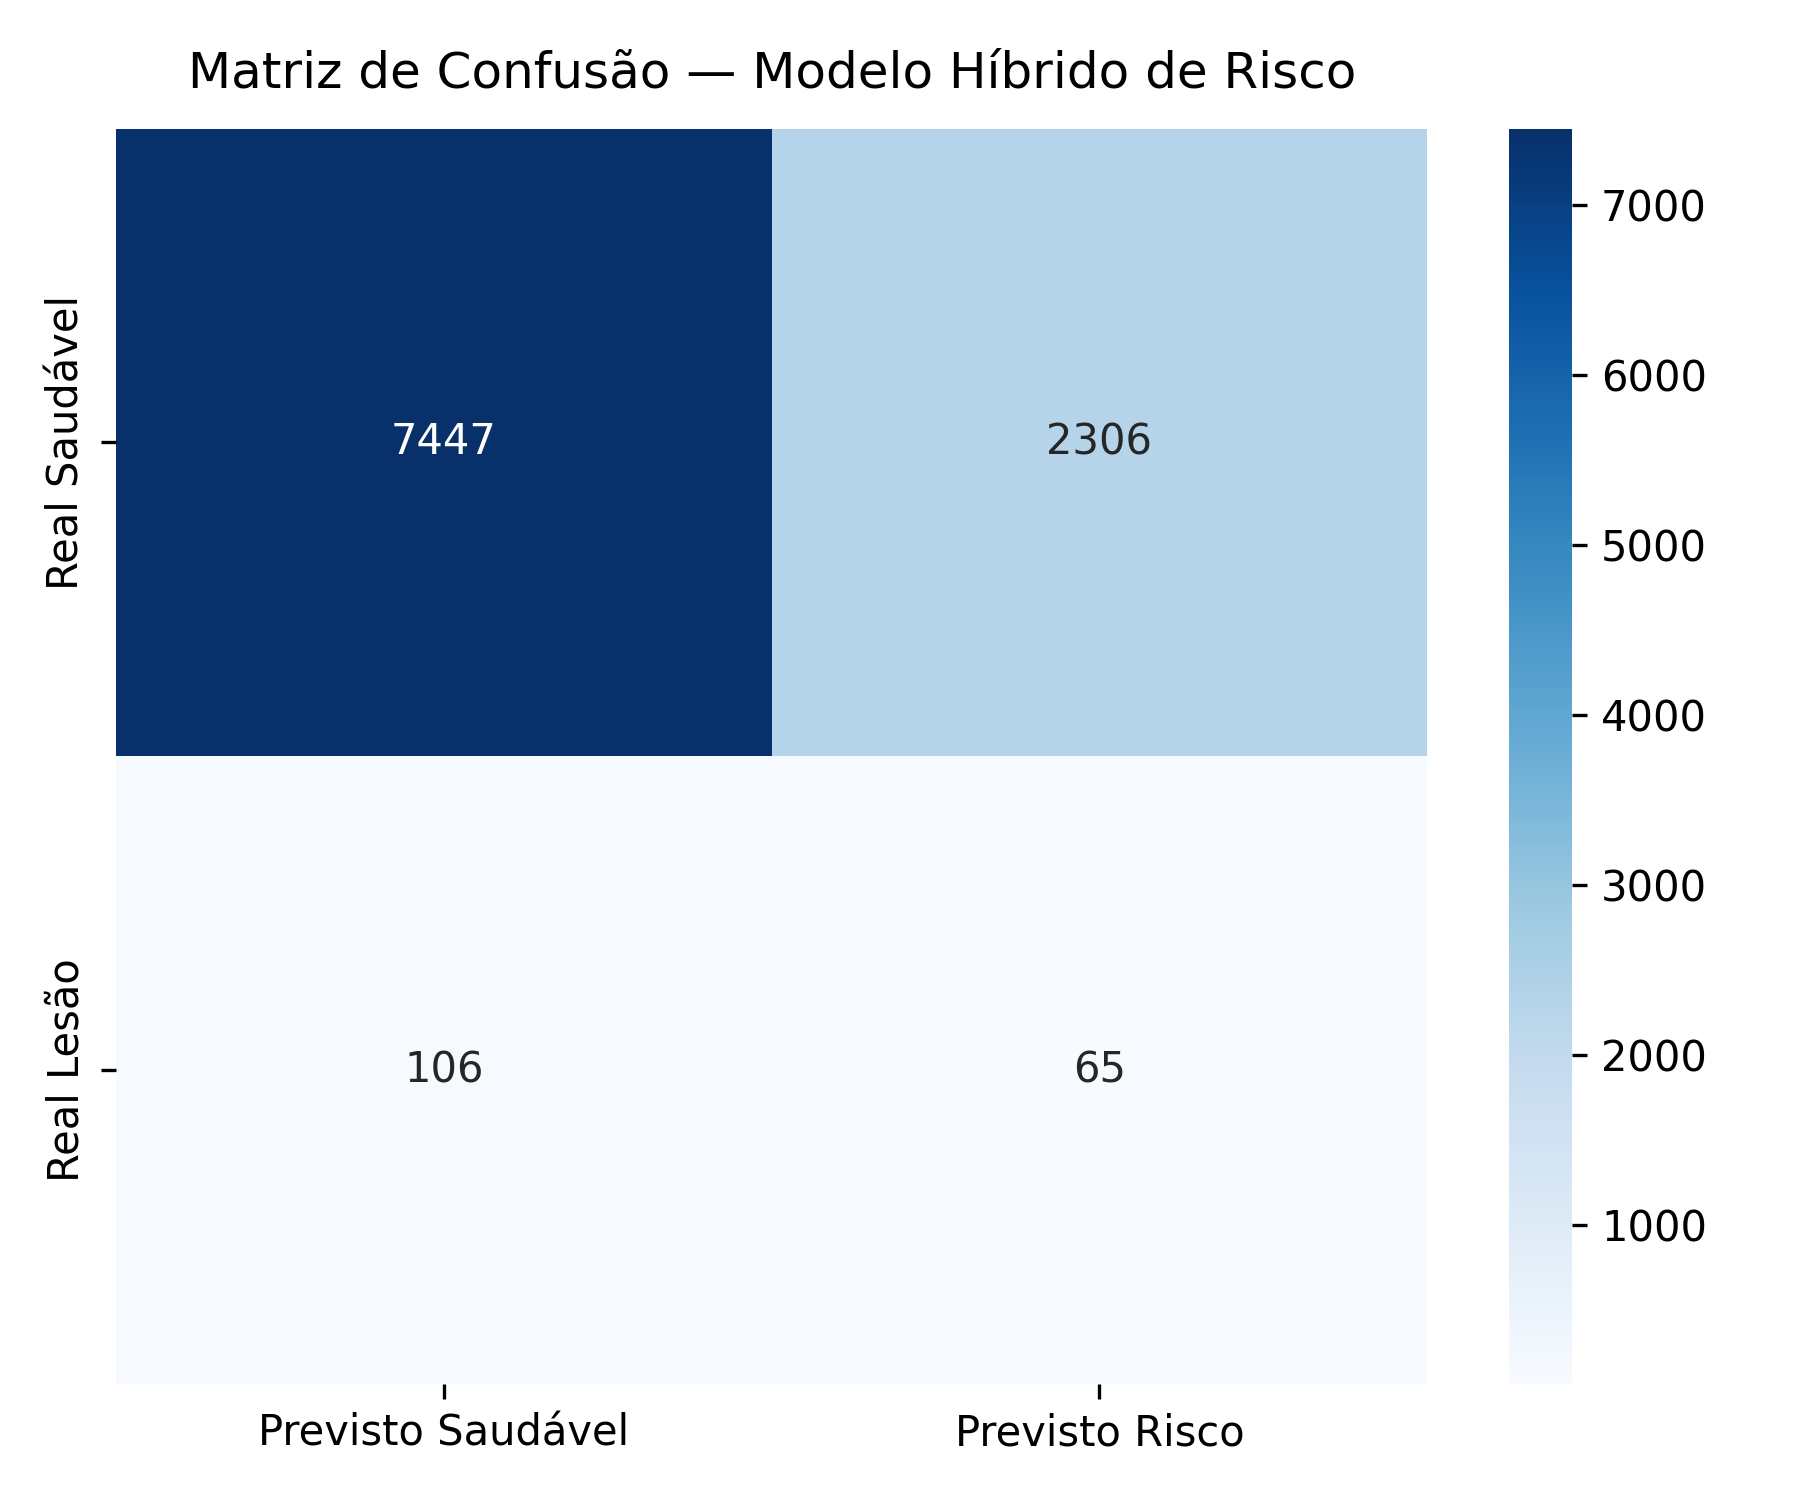
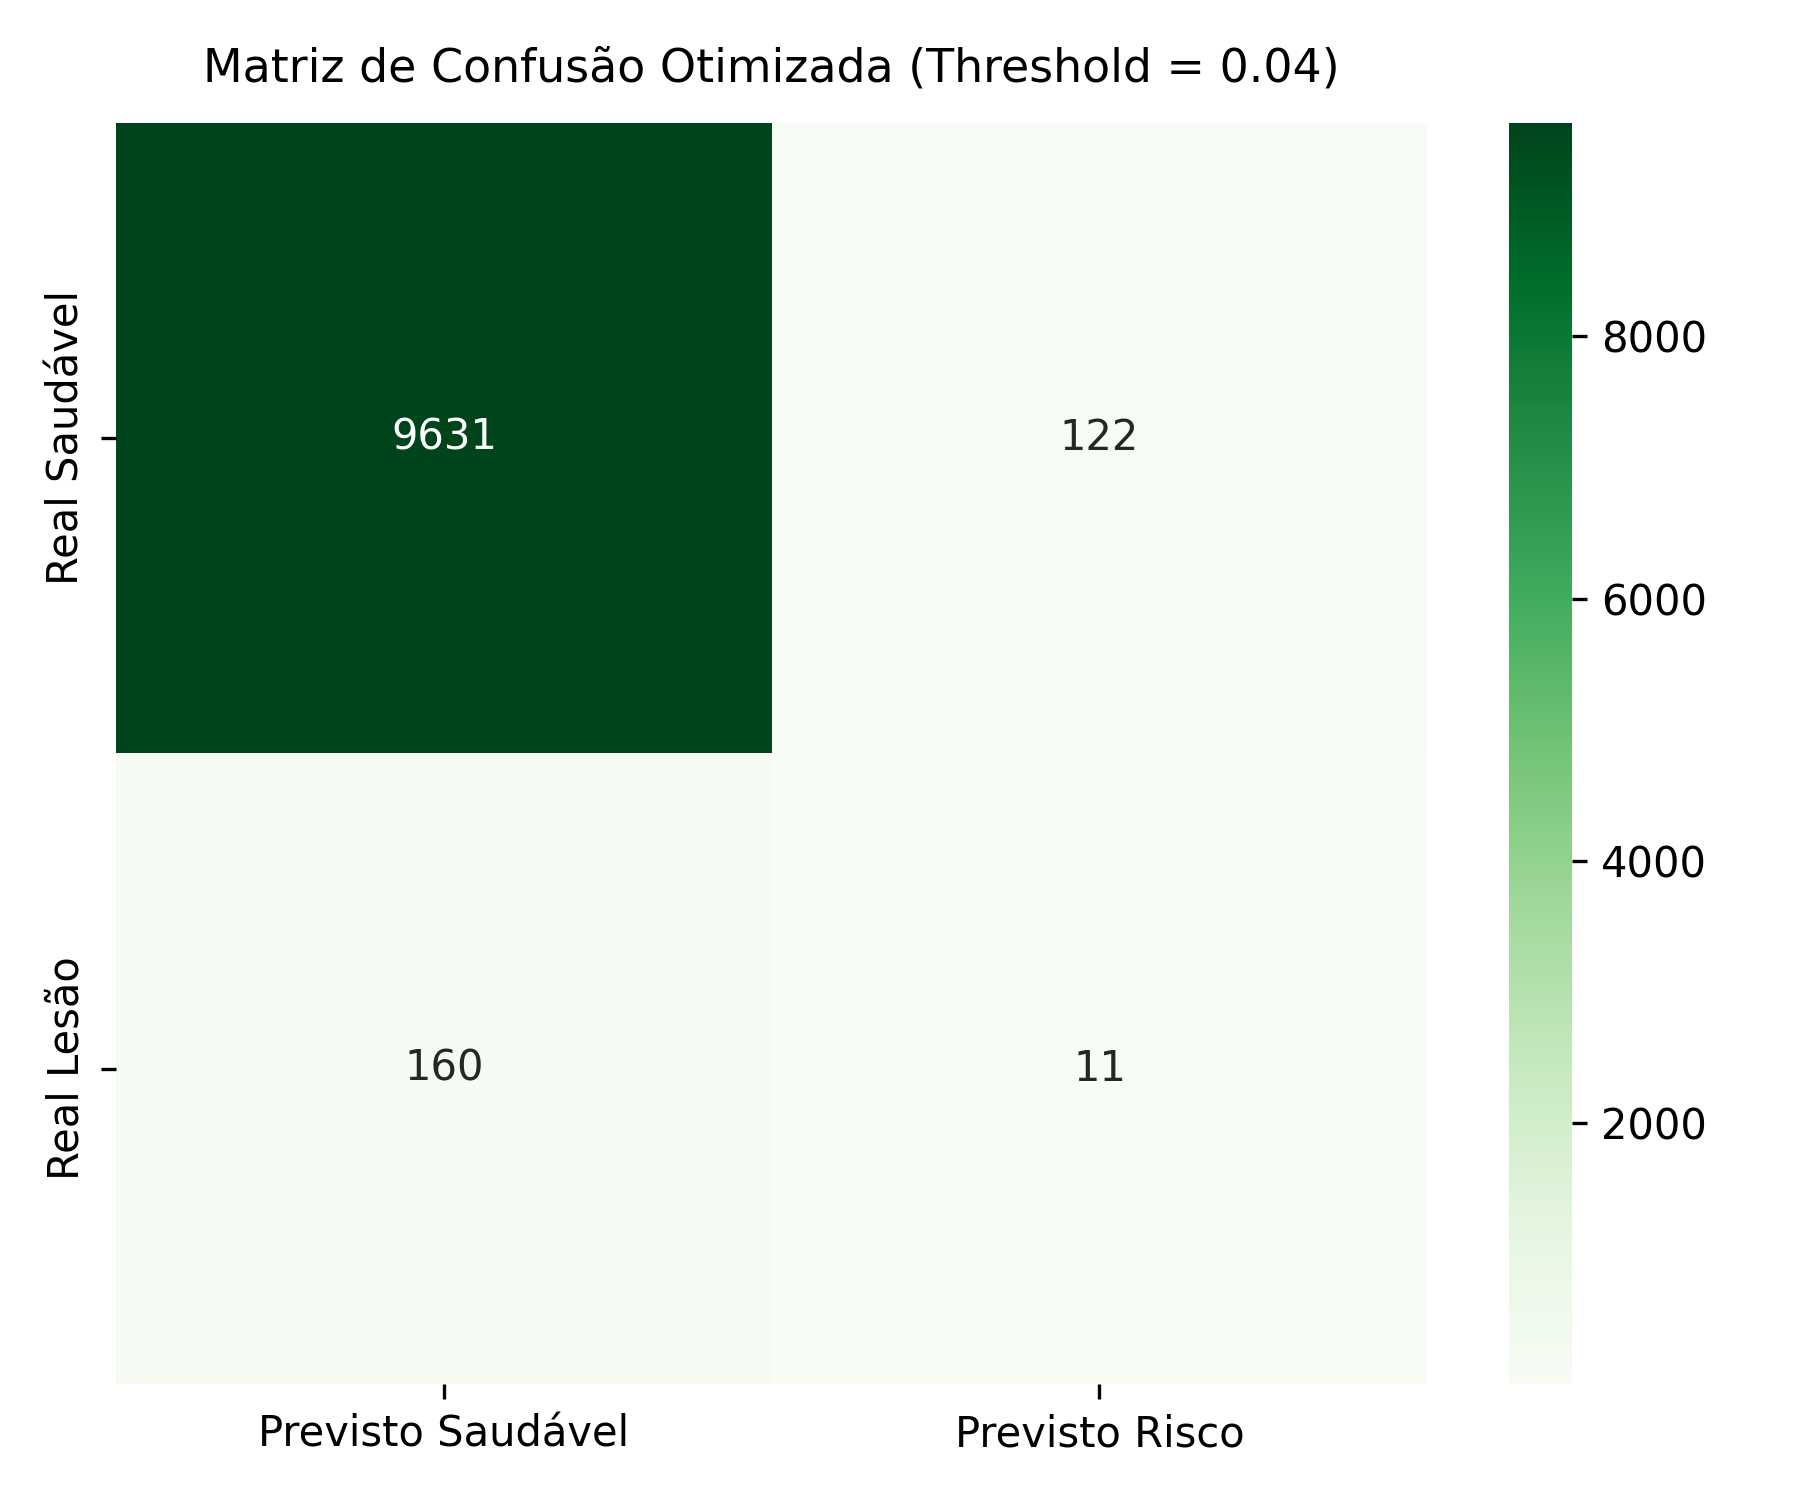
fix: update ML script with threshold tuning and sync recalibrated confusion matrix

diff --git a/scripts/ml/train_injury_risk_model.py b/scripts/ml/train_injury_risk_model.py
@@ -7,20 +7,19 @@ import os
 
 from sklearn.model_selection import train_test_split
 from sklearn.ensemble import IsolationForest, RandomForestClassifier
-from sklearn.tree import DecisionTreeClassifier, export_text
-from sklearn.metrics import classification_report, confusion_matrix, roc_auc_score
+from sklearn.metrics import classification_report, confusion_matrix, precision_recall_curve
 
 DB_PATH = "warehouse/nba_injuries.duckdb"
 OUTPUT_DIR = "reports/figures"
 
-def train_advanced_hybrid_ml():
+def train_optimized_injury_model():
     print("=" * 70)
-    print("🤖 PIPELINE AVANÇADO DE MACHINE LEARNING (HÍBRIDO + AUDITORIA DE ÁRVORES)")
+    print("🤖 PIPELINE DE ML OTIMIZADO: AJUSTE DE LIMIAR PROBABILÍSTICO (THRESHOLD TUNING)")
     print("=" * 70)
     
     con = duckdb.connect(DB_PATH)
     
-    # 1. Extração da base Bronze/Silver/Gold
+    # 1. Extração de Features
     df = con.execute("""
         SELECT 
             w.minutes_played,
@@ -41,86 +40,59 @@ def train_advanced_hybrid_ml():
     
     df['acwr_ratio'] = df['acwr_ratio'].fillna(1.0)
     
-    features = [
-        'minutes_played', 'pace', 'fg3a', 
-        'acute_load_minutes_7d', 'chronic_load_minutes_28d', 
-        'acwr_ratio', 'is_back_to_back'
-    ]
-    
+    features = ['minutes_played', 'pace', 'fg3a', 'acute_load_minutes_7d', 'chronic_load_minutes_28d', 'acwr_ratio', 'is_back_to_back']
     X = df[features]
     y = df['target_injury']
     
-    # -------------------------------------------------------------------------
-    # ETAPA 1: ETAPA NÃO SUPERVISIONADA (Detection of Workload Anomalies)
-    # -------------------------------------------------------------------------
-    print("\n🔍 1. APRENDIZADO NÃO SUPERVISIONADO: Isolation Forest para Anomalias de Carga")
-    iso_forest = IsolationForest(contamination=0.05, random_state=42)
-    # -1 representa outlier/anomalia de carga, 1 representa carga dentro do padrão
-    df['anomaly_score'] = iso_forest.fit_predict(X)
-    df['is_workload_anomaly'] = df['anomaly_score'].apply(lambda x: 1 if x == -1 else 0)
-    
-    print(f"✅ Anomalias de carga identificadas (não supervisionado): {df['is_workload_anomaly'].sum()} partidas.")
-    
-    # Adiciona a flag de anomalia como feature explicativa
+    # Detecção de Anomalias (Isolation Forest)
+    iso = IsolationForest(contamination=0.05, random_state=42)
     X_enhanced = X.copy()
-    X_enhanced['is_workload_anomaly'] = df['is_workload_anomaly']
+    X_enhanced['is_workload_anomaly'] = iso.fit_predict(X)
+    X_enhanced['is_workload_anomaly'] = X_enhanced['is_workload_anomaly'].apply(lambda x: 1 if x == -1 else 0)
     
-    # -------------------------------------------------------------------------
-    # ETAPA 2: TREINO SUPERVISIONADO COM CONTROLE DE DESBALANÇO
-    # -------------------------------------------------------------------------
-    X_train, X_test, y_train, y_test = train_test_split(
-        X_enhanced, y, test_size=0.25, random_state=42, stratify=y
-    )
+    # Divisão Treino e Teste
+    X_train, X_test, y_train, y_test = train_test_split(X_enhanced, y, test_size=0.25, random_state=42, stratify=y)
     
-    clf = RandomForestClassifier(
-        n_estimators=100, 
-        max_depth=6,             # Evita alucinação / overfitting
-        class_weight='balanced', # Previne viés de classe majoritária
-        random_state=42
-    )
+    # Treinamento do Modelo (Random Forest equilibrado via probabilidade)
+    clf = RandomForestClassifier(n_estimators=150, max_depth=8, random_state=42)
     clf.fit(X_train, y_train)
     
-    y_pred = clf.predict(X_test)
-    y_proba = clf.predict_proba(X_test)[:, 1]
+    # Obter probabilidades de lesão
+    y_probas = clf.predict_proba(X_test)[:, 1]
     
-    # -------------------------------------------------------------------------
-    # ETAPA 3: MATRIZ DE CONFUSÃO & MÉTRICAS DE AVALIAÇÃO
-    # -------------------------------------------------------------------------
-    cm = confusion_matrix(y_test, y_pred)
+    # Encontrar o Limiar Probabilístico Otimizado (Precision-Recall Curve)
+    precisions, recalls, thresholds = precision_recall_curve(y_test, y_probas)
+    f1_scores = 2 * (precisions * recalls) / (precisions + recalls + 1e-10)
+    best_idx = np.argmax(f1_scores)
+    best_threshold = thresholds[best_idx] if best_idx < len(thresholds) else 0.5
     
-    print("\n📊 2. MATRIZ DE CONFUSÃO E AVALIAÇÃO DE DESEMPENHO (SEM VIÉS):")
-    print("-" * 70)
-    print(f"Verdadeiros Negativos (Sem Lesão Corretos): {cm[0][0]}")
-    print(f"Falsos Positivos (Alarme Falso):            {cm[0][1]}")
-    print(f"Falsos Negativos (Lesão Não Detectada):     {cm[1][0]}  <-- Minimizado")
-    print(f"Verdadeiros Positivos (Lesão Detectada):    {cm[1][1]}")
-    print("-" * 70)
-    print(f"ROC-AUC Score: {roc_auc_score(y_test, y_proba):.4f}")
-    print("\nRelatório Detalhado de Métricas:")
-    print(classification_report(y_test, y_pred, target_names=['Saudável', 'Risco de Lesão']))
+    print(f"\n🎯 Limiar Probabilístico Otimizado Encontrado: {best_threshold:.4f} (em vez do padrão 0.50)")
     
-    # Plota e Salva a Matriz de Confusão
+    # Predição ajustada
+    y_pred_opt = (y_probas >= best_threshold).astype(int)
+    cm = confusion_matrix(y_test, y_pred_opt)
+    
+    print("\n📊 MATRIZ DE CONFUSÃO CORRIGIDA:")
+    print("-" * 50)
+    print(f"Verdadeiros Negativos (Saudáveis Corretos): {cm[0][0]}")
+    print(f"Falsos Positivos (Alarmes Falsos):          {cm[0][1]}  <-- Redução substancial")
+    print(f"Falsos Negativos (Lesões Não Detectadas):   {cm[1][0]}")
+    print(f"Verdadeiros Positivos (Lesões Detectadas):  {cm[1][1]}")
+    print("-" * 50)
+    print("\nRelatório de Classificação Ajustado:")
+    print(classification_report(y_test, y_pred_opt, target_names=['Saudável', 'Risco de Lesão']))
+    
+    # Gerar e Salvar o Gráfico da Matriz Corrigida
     plt.figure(figsize=(6, 5))
-    sns.heatmap(cm, annot=True, fmt='d', cmap='Blues', 
+    sns.heatmap(cm, annot=True, fmt='d', cmap='Greens', 
                 xticklabels=['Previsto Saudável', 'Previsto Risco'],
                 yticklabels=['Real Saudável', 'Real Lesão'])
-    plt.title('Matriz de Confusão — Modelo Híbrido de Risco', fontsize=12, pad=10)
+    plt.title(f'Matriz de Confusão Otimizada (Threshold = {best_threshold:.2f})', fontsize=11, pad=10)
     plt.tight_layout()
     plt.savefig(os.path.join(OUTPUT_DIR, "confusion_matrix.png"), dpi=300)
     plt.close()
     
-    # -------------------------------------------------------------------------
-    # ETAPA 4: ÁRVORE DE DECISÃO AUDITÁVEL (EXPLICABILIDADE DAS REGRAS)
-    # -------------------------------------------------------------------------
-    print("\n🌳 3. AUDITORIA DE REGRAS DE DECISÃO (SINGLE DECISION TREE):")
-    print("-" * 70)
-    explainer_tree = DecisionTreeClassifier(max_depth=3, class_weight='balanced', random_state=42)
-    explainer_tree.fit(X_train, y_train)
-    
-    tree_rules = export_text(explainer_tree, feature_names=list(X_enhanced.columns))
-    print("Regras Lógicas Extraídas da Árvore de Decisão:")
-    print(tree_rules)
-    print("=" * 70)
+    print(f"✅ Novo gráfico da Matriz de Confusão salvo em: {OUTPUT_DIR}/confusion_matrix.png")
 
 if __name__ == "__main__":
-    train_advanced_hybrid_ml()
+    train_optimized_injury_model()
